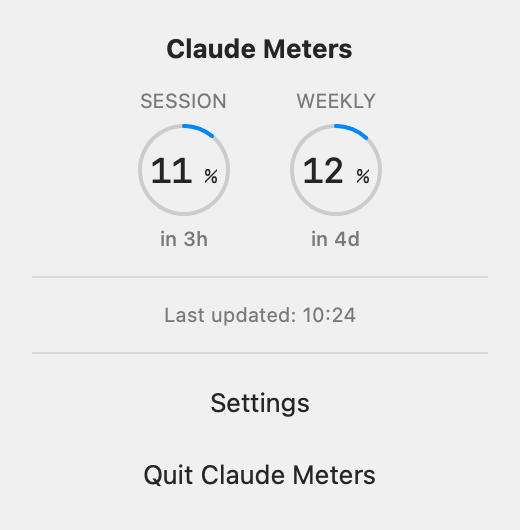
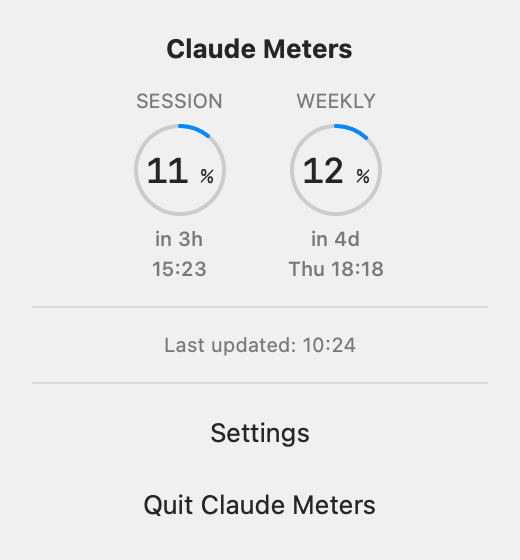
[chore] 紹介サイトのPopover画像を、リセット日時つきの新しい見た目に差し替え

diff --git a/public/ja/index.html b/public/ja/index.html
@@ -69,7 +69,7 @@
     </div>
     <picture>
       <source media="(prefers-color-scheme: dark)" srcset="../images/popover-ja-dark.png">
-      <img class="popover" src="../images/popover-ja-light.png" width="260" height="265" alt="ポップオーバー：セッション11%（3時間後にリセット）、週間12%（4日後にリセット）">
+      <img class="popover" src="../images/popover-ja-light.png" width="260" height="280" alt="ポップオーバー：セッション11%（3時間後にリセット）、週間12%（4日後にリセット）">
     </picture>
     <figcaption class="phrase">メニューバーの<wbr>表示と、<wbr>クリックすると<wbr>開く<wbr>ポップオーバー。<wbr>数値は<wbr>サンプルです。</figcaption>
   </figure>

diff --git a/public/index.html b/public/index.html
@@ -69,7 +69,7 @@
     </div>
     <picture>
       <source media="(prefers-color-scheme: dark)" srcset="images/popover-en-dark.png">
-      <img class="popover" src="images/popover-en-light.png" width="260" height="265" alt="The popover: Session 11%, resetting in 3 hours; Weekly 12%, resetting in 4 days">
+      <img class="popover" src="images/popover-en-light.png" width="260" height="280" alt="The popover: Session 11%, resetting in 3 hours; Weekly 12%, resetting in 4 days">
     </picture>
     <figcaption>The menu bar, and the popover that opens when you click it. The values are samples.</figcaption>
   </figure>
